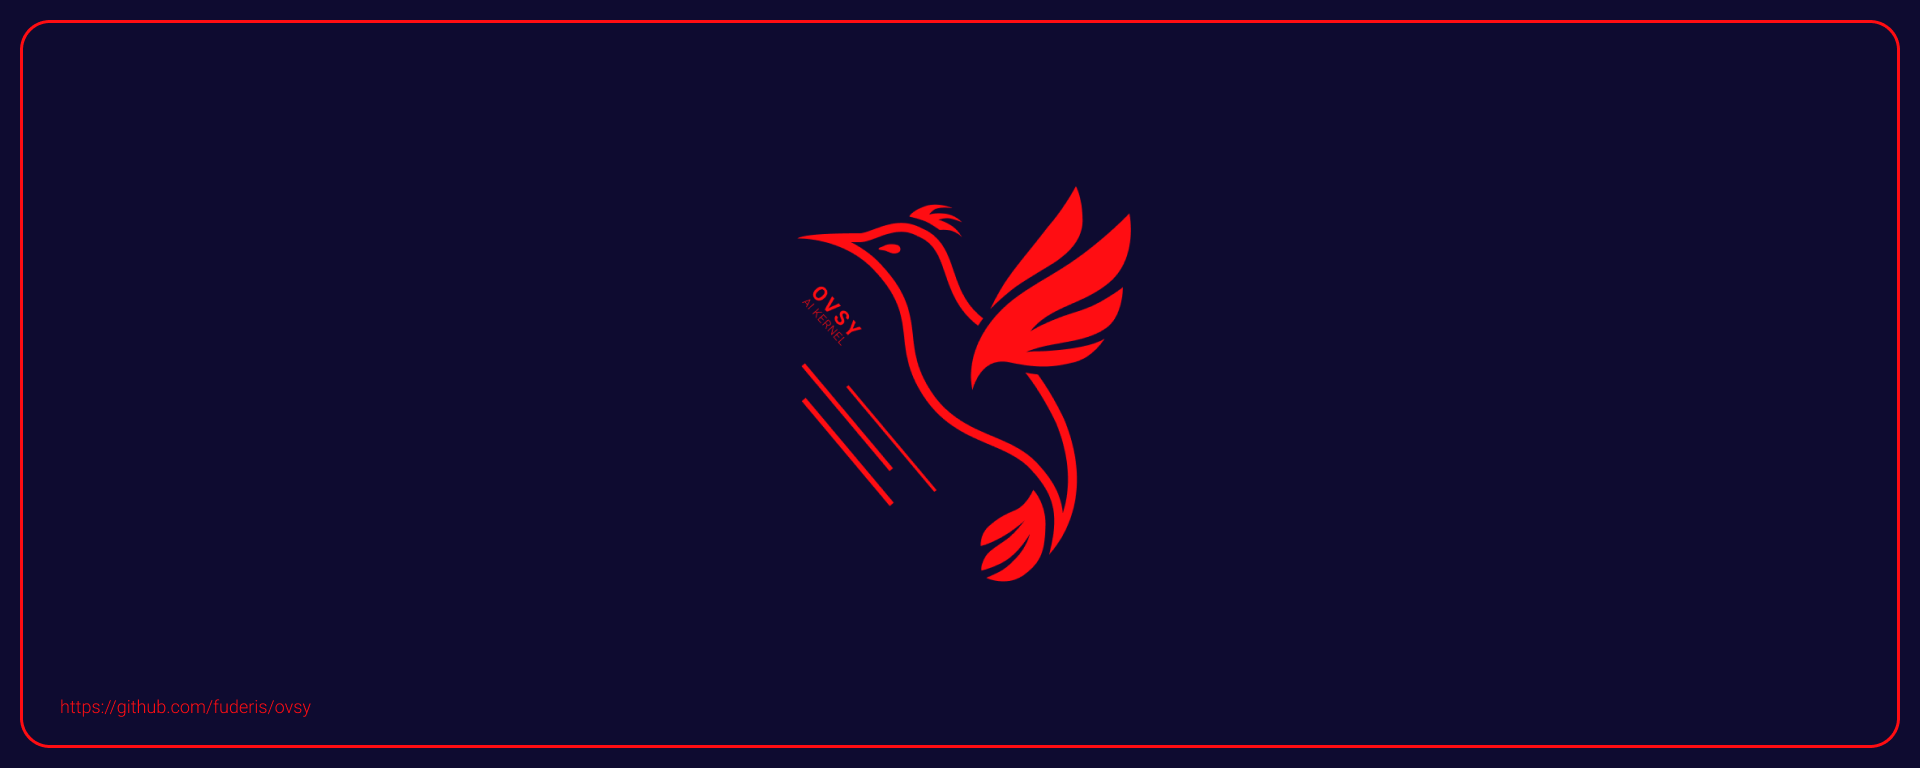
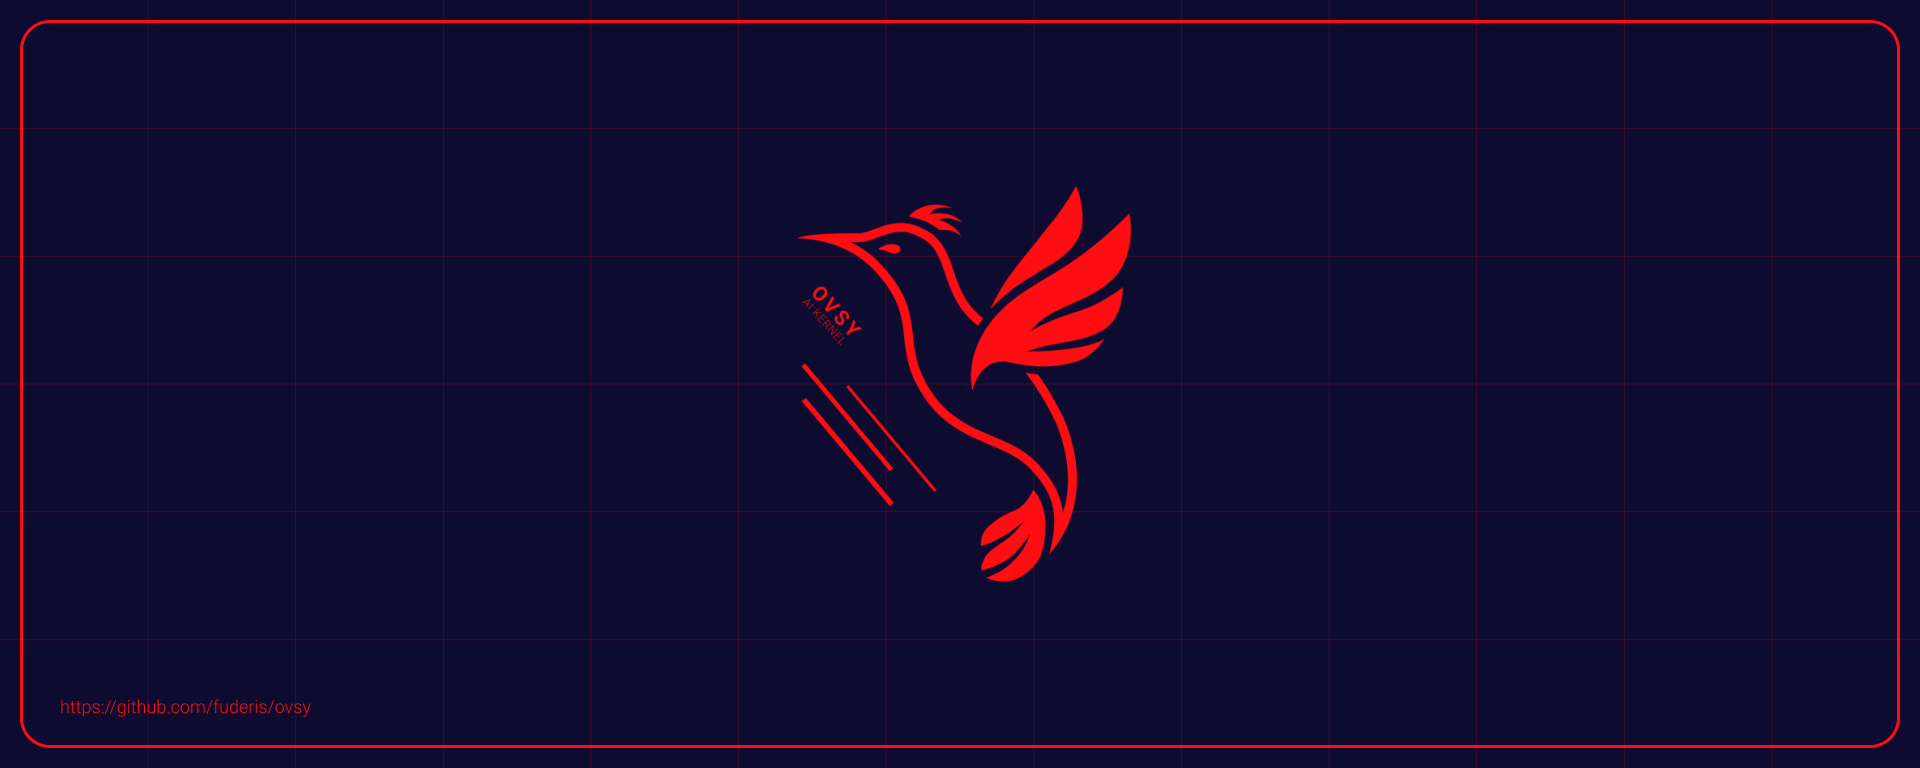
build: bump macron to 0.4.2 and refactor build.sh
- Update macron dependency to 0.4.2 in Cargo.toml and Cargo.lock
- Refactor build.sh output styling, formatting, and logs
- Update assets (cover.png and scheme.png)

diff --git a/crates/kernel/src/main.rs b/crates/kernel/src/main.rs
@@ -37,7 +37,7 @@ use pearce::Server;
 use prelude::*;
 
 pub const APP_NAME: &str = "ovsy";
-pub const APP_VERSION: &str = "0.14.0";
+pub const APP_VERSION: &str = "0.14.1";
 
 /// The Ovsy CLI commands parser
 #[derive(Parser)]